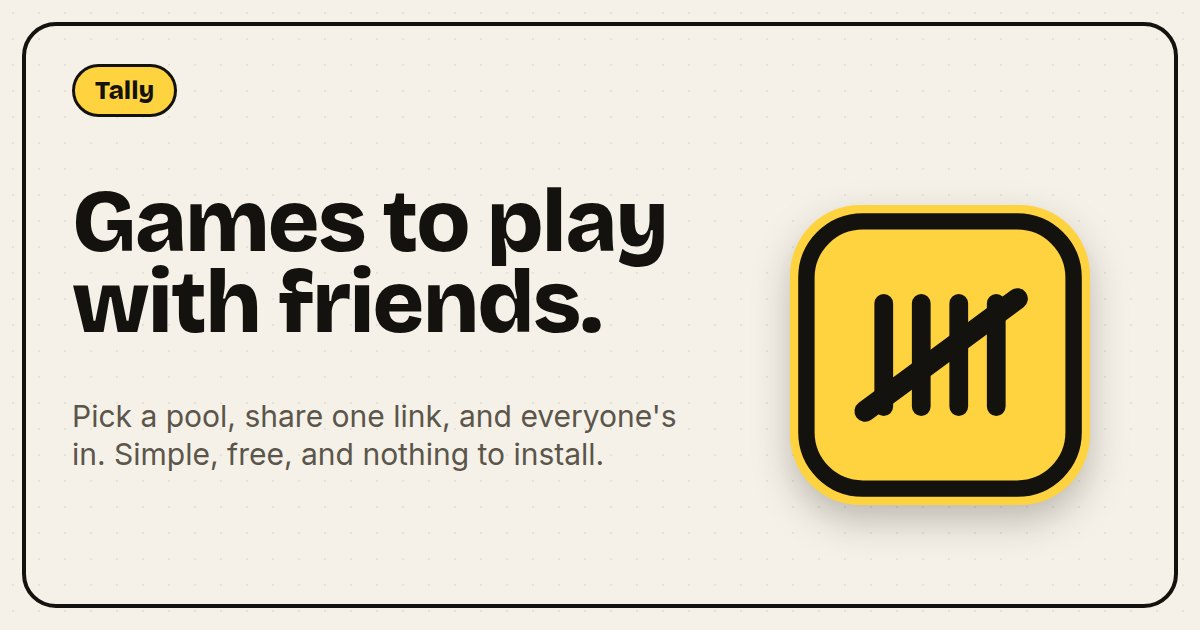
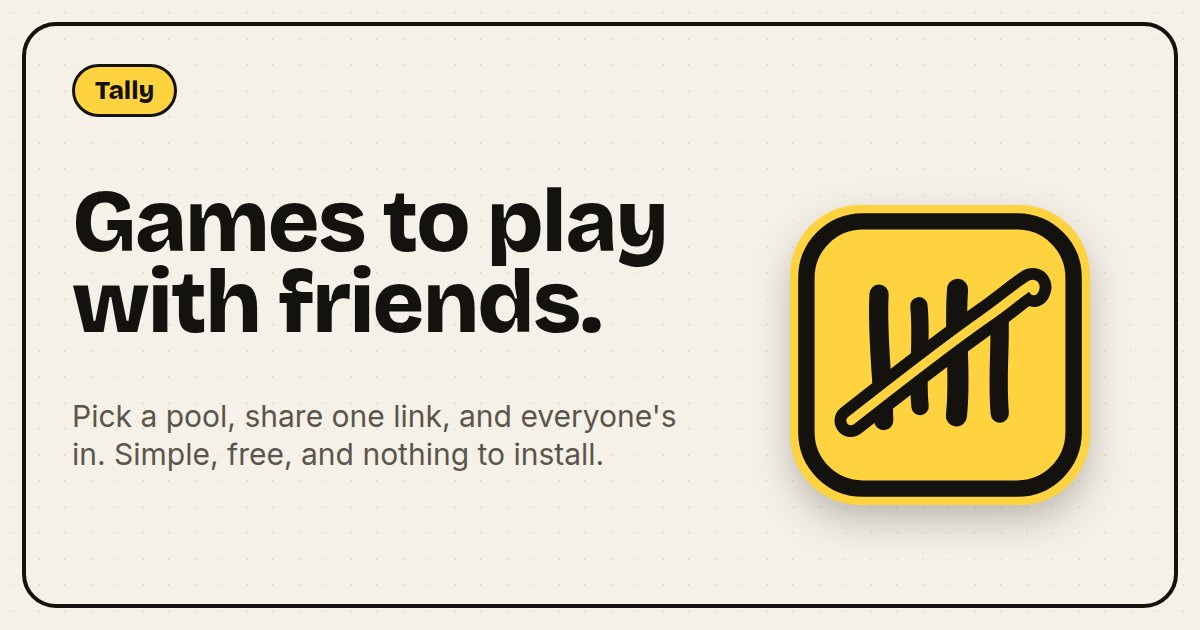
The mark is drawn by a hand: uneven uprights, a hooked fifth with a cut
Straight, equal, round-capped strokes read as a glyph. Now each upright
leans and lands at its own height, and the fifth stroke is a heavy pull
with a hook and a hairline of the ground down its middle — one stroke
with a scar, which is how the one that completes the set gets seen.

Two sets of weights, not one: in the dark the strokes are 8% lighter and
the cut 40% wider, because a light stroke on a dark ground swells where a
dark stroke on light shrinks, and at the light weights the dark cut nearly
closed. The icon script, TallyGlyph and the web loader each carry both,
and the web's live in CSS so they follow the theme.

Claude-Session: https://claude.ai/code/session_01U7MpG5moTLZtrMqWfwCm9C

Changed region(s): [[0.6783, 0.4222, 0.8942, 0.6937]]

diff --git a/ios/TallyKit/Sources/TallyKit/Design/TallyGlyph.swift b/ios/TallyKit/Sources/TallyKit/Design/TallyGlyph.swift
@@ -1,74 +1,122 @@
 import SwiftUI
 
 /**
- The mark: four uprights and the slash across them, in a 56×40 box.
+ The mark: four uprights and the fifth stroke through them, drawn by a hand rather than a ruler.
 
- It is the app icon, the lockup and the loader, and it lives here rather than in the app because
- the widget extension cannot see an app asset — `Image("TallyMark")` builds there and draws
- nothing — so a lock screen that wants the mark draws it, from this. The football and the golf
- ball are the families' badges; this is the app's, because the app is the count and a football is
- one of the things it counts.
+ Each upright leans a hair and lands at its own height, and the fifth is a heavy pull with a hook
+ at the end and a cut of the ground colour down its middle — the stroke that completes the set,
+ read as one stroke with a scar rather than a highlight. It is the app icon, the lockup and the
+ loader, and it lives here rather than in the app because the widget extension cannot see an app
+ asset — `Image("TallyMark")` builds there and draws nothing — so a lock screen that wants the
+ mark draws it, from this. The football and the golf ball are the families' badges; this is the
+ app's, because the app is the count and a football is one of the things it counts.
 
- The proportions match `TallyMark` in `src/components/TallyLoader.tsx`: uprights at 7, 18, 29 and
- 40 across, 7 to 33 down, the slash from the bottom-left corner to past the last upright.
+ The geometry is `public/icon.svg`'s, in a 100×68 box, and `TallyMark` in
+ `src/components/TallyLoader.tsx` draws the same paths. Two sets of weights, not one: in the dark
+ the strokes are 8% lighter and the cut 40% wider, because a light stroke on a dark ground swells
+ where a dark stroke on a light one shrinks, and drawn at the light weights the dark cut nearly
+ closes. `scripts/build-ios-assets.ts` carries the same two sets for the icon.
  */
 public enum TallyGlyph {
     /// Height over width.
-    public static let aspect: CGFloat = 40 / 56
+    public static let aspect: CGFloat = 68 / 100
+
+    /// One stroke: where the pen lands, then cubic segments (two control points and an end).
+    private struct Stroke {
+        let start: CGPoint
+        let segments: [(CGPoint, CGPoint, CGPoint)]
+        let width: CGFloat
+    }
+
+    private static func p(_ x: CGFloat, _ y: CGFloat) -> CGPoint { CGPoint(x: x, y: y) }
+
+    // The icon's paths, shifted by (−18, −29) into the 100×68 box.
+    private static let uprights: [Stroke] = [
+        Stroke(start: p(20, 9), segments: [(p(19, 26), p(21.5, 44), p(22, 63))], width: 8.2),
+        Stroke(start: p(37, 14), segments: [(p(38.5, 29), p(36, 43), p(37.5, 57))], width: 7.4),
+        Stroke(start: p(53.5, 7), segments: [(p(52, 26), p(55, 43), p(53, 61))], width: 9),
+        Stroke(start: p(71, 12), segments: [(p(72.5, 27), p(70, 42), p(71.5, 60))], width: 7.8),
+    ]
+    private static let hook = Stroke(
+        start: p(8, 63),
+        segments: [(p(26, 49), p(46, 33), p(66, 19)), (p(74, 13.5), p(80, 8), p(85, 5)), (p(86.5, 4.5), p(87, 6), p(86, 7.5))],
+        width: 14
+    )
+    private static let cut: CGFloat = 4
+    /// The dark weights: strokes × this, and the cut this wide.
+    private static let darkThinning: CGFloat = 0.92
+    private static let darkCut: CGFloat = 5.6
+    private static let darkHook: CGFloat = 13.2
 
     /**
      Draws the mark into a canvas.
 
      `progress` is how much of it has been written, 0 to 1: each stroke starts a beat after the
-     one before, timed so the slash finishes exactly at 1, which is what lets the app's loader
+     one before, timed so the fifth finishes exactly at 1, which is what lets the app's loader
      write the mark rather than switch it on. At 1 it is the whole mark, which is all a widget
-     ever wants.
+     ever wants. `ground` is what the cut through the fifth stroke shows: the paper the mark sits
+     on, or the tile's yellow. The weights follow the canvas's colour scheme.
      */
     public static func draw(
         into context: GraphicsContext,
         size: CGSize,
         progress: Double = 1,
         ink: Color = TallyPalette.ink,
-        slash: Color = TallyPalette.flag
+        ground: Color = TallyPalette.paper
     ) {
-        let w = size.width / 56
-        let h = size.height / 40
+        let w = size.width / 100
+        let h = size.height / 68
+        let dark = context.environment.colorScheme == .dark
+        let k = dark ? darkThinning : 1
 
-        func stroke(_ index: Int, from: CGPoint, to: CGPoint, colour: Color, width: CGFloat) {
-            let drawn = min(max((progress - Double(index) * 0.14) / 0.44, 0), 1)
-            guard drawn > 0 else { return }
+        func path(_ stroke: Stroke) -> Path {
             var path = Path()
-            path.move(to: from)
-            path.addLine(to: CGPoint(x: from.x + (to.x - from.x) * drawn, y: from.y + (to.y - from.y) * drawn))
-            context.stroke(path, with: .color(colour), style: StrokeStyle(lineWidth: width, lineCap: .round))
+            path.move(to: CGPoint(x: stroke.start.x * w, y: stroke.start.y * h))
+            for (c1, c2, end) in stroke.segments {
+                path.addCurve(
+                    to: CGPoint(x: end.x * w, y: end.y * h),
+                    control1: CGPoint(x: c1.x * w, y: c1.y * h),
+                    control2: CGPoint(x: c2.x * w, y: c2.y * h)
+                )
+            }
+            return path
+        }
+        func drawn(_ index: Int) -> CGFloat {
+            CGFloat(min(max((progress - Double(index) * 0.14) / 0.44, 0), 1))
+        }
+        func stroke(_ path: Path, _ index: Int, colour: Color, width: CGFloat) {
+            let amount = drawn(index)
+            guard amount > 0 else { return }
+            let part = amount < 1 ? path.trimmedPath(from: 0, to: amount) : path
+            context.stroke(part, with: .color(colour), style: StrokeStyle(lineWidth: width * w, lineCap: .round, lineJoin: .round))
         }
 
-        for (index, x) in [7.0, 18.0, 29.0, 40.0].enumerated() {
-            stroke(index, from: CGPoint(x: x * w, y: 7 * h), to: CGPoint(x: x * w, y: 33 * h), colour: ink, width: 4 * w)
+        for (index, upright) in uprights.enumerated() {
+            stroke(path(upright), index, colour: ink, width: upright.width * k)
         }
-        // The slash is the stroke that completes the set, which is the whole idea of a tally, so
-        // it gets the accent where there is one to give.
-        stroke(4, from: CGPoint(x: 2 * w, y: 33 * h), to: CGPoint(x: 48 * w, y: 7 * h), colour: slash, width: 4.5 * w)
+        let fifth = path(hook)
+        stroke(fifth, 4, colour: ink, width: dark ? darkHook : hook.width)
+        stroke(fifth, 4, colour: ground, width: dark ? darkCut : cut)
     }
 }
 
 /// The finished mark as a view: for the widgets, and for anywhere that wants the glyph without
-/// the loader's animation. On a lock screen accessory pass the same colour for both, since that
-/// surface is a mask and the accent would carry nothing.
+/// the loader's animation. On a lock screen accessory, which is drawn as a mask, pass the same
+/// colour for `ground` as the surface behind it so the cut still reads.
 public struct TallyGlyphView: View {
     public var width: CGFloat
     public var ink: Color
-    public var slash: Color
+    public var ground: Color
 
-    public init(width: CGFloat = 56, ink: Color = TallyPalette.ink, slash: Color = TallyPalette.flag) {
+    public init(width: CGFloat = 100, ink: Color = TallyPalette.ink, ground: Color = TallyPalette.paper) {
         self.width = width
         self.ink = ink
-        self.slash = slash
+        self.ground = ground
     }
 
     public var body: some View {
         Canvas { context, size in
-            TallyGlyph.draw(into: context, size: size, ink: ink, slash: slash)
+            TallyGlyph.draw(into: context, size: size, ink: ink, ground: ground)
         }
         .frame(width: width, height: width * TallyGlyph.aspect)
         .accessibilityHidden(true)

diff --git a/scripts/build-ios-assets.ts b/scripts/build-ios-assets.ts
@@ -83,19 +83,35 @@ async function main() {
   // The app icon: iOS masks its own corners, so the artwork fills the square edge to edge. The
   // glyph is the one in public/icon.svg — four uprights and the slash, the mark the loader draws —
   // rather than a football, because the app is the count and the football is one thing it counts.
-  const iconSvg = (ground: string, ink: string) =>
-    `<svg xmlns="http://www.w3.org/2000/svg" viewBox="0 0 128 128" width="1024" height="1024">
+  // It is drawn by a hand rather than a ruler: each upright leans and lands at its own height, and
+  // the fifth stroke is a heavy pull with a cut of the ground down its middle. The dark tile is
+  // the same geometry with its own weights, because yellow on black swells where black on yellow
+  // shrinks — drawn at the light weights, the dark cut nearly closed. TallyGlyph.swift and
+  // TallyLoader.tsx carry the same numbers.
+  const iconSvg = (ground: string, ink: string, dark: boolean) => {
+    const k = dark ? 0.92 : 1;
+    const [edge, cut] = dark ? [13.2, 5.6] : [14, 4];
+    const hook = "M26 92 C 44 78, 64 62, 84 48 C 92 42.5, 98 37, 103 34 C 104.5 33.5, 105 35, 104 36.5";
+    const uprights: [string, number][] = [
+      ["M38 38 C 37 55, 39.5 73, 40 92", 8.2],
+      ["M55 43 C 56.5 58, 54 72, 55.5 86", 7.4],
+      ["M71.5 36 C 70 55, 73 72, 71 90", 9],
+      ["M89 41 C 90.5 56, 88 71, 89.5 89", 7.8],
+    ];
+    return `<svg xmlns="http://www.w3.org/2000/svg" viewBox="0 0 128 128" width="1024" height="1024">
       <rect width="128" height="128" fill="${ground}"/>
       <rect x="9" y="9" width="110" height="110" rx="26" fill="none" stroke="${ink}" stroke-width="7"/>
-      <g fill="none" stroke="${ink}" stroke-linecap="round">
-        <path d="M40 42v44M56 42v44M72 42v44M88 42v44" stroke-width="8"/>
-        <path d="M32 88L97 40" stroke-width="9"/>
+      <g fill="none" stroke="${ink}" stroke-linecap="round" stroke-linejoin="round">
+        ${uprights.map(([d, w]) => `<path d="${d}" stroke-width="${(w * k).toFixed(2)}"/>`).join("")}
+        <path d="${hook}" stroke-width="${edge}"/>
       </g>
+      <path d="${hook}" fill="none" stroke="${ground}" stroke-width="${cut}" stroke-linecap="round" stroke-linejoin="round"/>
     </svg>`;
-  const iconPage = (ground: string, ink: string, px: number) =>
+  };
+  const iconPage = (ground: string, ink: string, px: number, dark = false) =>
     `<!doctype html><html><body style="margin:0;background:${ground}">
       <div style="width:${px}px;height:${px}px;background:${ground};display:flex;align-items:center;justify-content:center">
-        ${iconSvg(ground, ink).replace('width="1024" height="1024"', `width="${px}" height="${px}"`)}
+        ${iconSvg(ground, ink, dark).replace('width="1024" height="1024"', `width="${px}" height="${px}"`)}
       </div></body></html>`;
 
   const icon = path.join(CATALOG, "AppIcon.appiconset");
@@ -108,8 +124,9 @@ async function main() {
   // The dark icon (iOS 18+). Not the light one dimmed: the relationship inverts. On a home screen
   // full of dark icons the yellow square was the loudest thing on the page, so at night the ground
   // becomes the app's own warm near-black and the strokes become the yellow — the same two
-  // colours, the other way round, which is what the rest of the app does when it goes dark.
-  await page.setContent(iconPage("#1A1713", "#FFD23F", 1024));
+  // colours, the other way round, which is what the rest of the app does when it goes dark — and
+  // the dark weights, per iconSvg.
+  await page.setContent(iconPage("#1A1713", "#FFD23F", 1024, true));
   await page.screenshot({ path: path.join(icon, "AppIcon-Dark.png") });
 
   // The web's touch icon is the light icon at 180, so a home-screen shortcut matches the app.

diff --git a/src/components/TallyLoader.tsx b/src/components/TallyLoader.tsx
@@ -4,9 +4,9 @@ import type { Abbr } from "../../shared/teams.ts";
 /**
  * The loading animation.
  *
- * A spinning ring is what every app uses while it waits. This one draws a tally mark — four
- * strokes and the diagonal — because that is what the app is called, and because five is the
- * number the whole pool is built on. It draws, holds, and rubs out, which is also roughly what a
+ * A spinning ring is what every app uses while it waits. This one writes the tally mark — four
+ * strokes and the fifth through them — because that is what the app is called, and because five
+ * is the number the whole pool is built on. It draws, holds, and rubs out, which is also roughly what a
  * week does.
  *
  * Pure CSS: no JavaScript ticking at sixty frames a second behind a request that is already the
@@ -27,45 +27,43 @@ export function TallyLoader({ label = "Loading…", size = 64 }: { label?: strin
  * one part of a page catches up.
  */
 export function TallyMark({ size = 64 }: { size?: number }) {
-  // Four uprights and the slash across them, in a 56x40 box. The slash is gold so the fifth
-  // stroke reads as the one that completes the set, which is the whole point of a tally.
-  const uprights = [7, 18, 29, 40];
+  // The icon's geometry (public/icon.svg) in a 100x68 box; TallyGlyph.swift draws the same paths.
+  // Each upright leans and lands at its own height, and the fifth stroke is a heavy pull with a
+  // cut of the paper down its middle — one stroke with a scar, which is how the stroke that
+  // completes the set gets to be the one you see. The weights come from CSS (`--tally-k`,
+  // `--tally-edge`, `--tally-cut`) because the dark theme needs its own: a light stroke on a dark
+  // ground swells where a dark one on a light ground shrinks, and at the light weights the dark
+  // cut nearly closes.
+  const uprights: [string, number][] = [
+    ["M20 9 C 19 26, 21.5 44, 22 63", 8.2],
+    ["M37 14 C 38.5 29, 36 43, 37.5 57", 7.4],
+    ["M53.5 7 C 52 26, 55 43, 53 61", 9],
+    ["M71 12 C 72.5 27, 70 42, 71.5 60", 7.8],
+  ];
+  const hook = "M8 63 C 26 49, 46 33, 66 19 C 74 13.5, 80 8, 85 5 C 86.5 4.5, 87 6, 86 7.5";
   return (
     <svg
       width={size}
-      height={(size * 40) / 56}
-      viewBox="0 0 56 40"
+      height={(size * 68) / 100}
+      viewBox="0 0 100 68"
       fill="none"
+      strokeLinecap="round"
+      strokeLinejoin="round"
       aria-hidden="true"
       className="tally-mark overflow-visible"
     >
-      {uprights.map((x, i) => (
-        <line
-          key={x}
-          x1={x}
-          y1={7}
-          x2={x}
-          y2={33}
+      {uprights.map(([d, w], i) => (
+        <path
+          key={d}
+          d={d}
           pathLength={1}
           stroke="var(--color-ink)"
-          strokeWidth={4}
-          strokeLinecap="round"
           className="tally-stroke"
-          style={{ "--i": i } as React.CSSProperties}
+          style={{ "--i": i, strokeWidth: `calc(${w}px * var(--tally-k))` } as React.CSSProperties}
         />
       ))}
-      <line
-        x1={2}
-        y1={33}
-        x2={48}
-        y2={7}
-        pathLength={1}
-        stroke="var(--color-flag)"
-        strokeWidth={4.5}
-        strokeLinecap="round"
-        className="tally-stroke"
-        style={{ "--i": 4 } as React.CSSProperties}
-      />
+      <path d={hook} pathLength={1} stroke="var(--color-ink)" className="tally-stroke" style={{ "--i": 4, strokeWidth: "var(--tally-edge)" } as React.CSSProperties} />
+      <path d={hook} pathLength={1} stroke="var(--color-paper)" className="tally-stroke" style={{ "--i": 4, strokeWidth: "var(--tally-cut)" } as React.CSSProperties} />
     </svg>
   );
 }

diff --git a/src/index.css b/src/index.css
@@ -44,6 +44,11 @@
   --color-on-accent: #14120f;
   --color-on-turf: #ffffff;
   --color-dot: rgb(20 18 15 / 0.06);
+  /* The loading mark's weights (TallyLoader.tsx). The dark theme thins the strokes and widens the
+     cut, because a light stroke on a dark ground swells where a dark one on light shrinks. */
+  --tally-k: 1;
+  --tally-edge: 14px;
+  --tally-cut: 4px;
 
   --shadow-hard: 4px 4px 0 0 var(--color-shadow);
   --shadow-hard-sm: 2px 2px 0 0 var(--color-shadow);
@@ -101,6 +106,9 @@
     --color-on-accent: #14120f;
     --color-on-turf: #14120f;
     --color-dot: rgb(244 239 230 / 0.05);
+    --tally-k: 0.92;
+    --tally-edge: 13.2px;
+    --tally-cut: 5.6px;
   }
 }
 
@@ -134,6 +142,9 @@
   --color-on-accent: #14120f;
   --color-on-turf: #14120f;
   --color-dot: rgb(244 239 230 / 0.05);
+  --tally-k: 0.92;
+  --tally-edge: 13.2px;
+  --tally-cut: 5.6px;
 }
 
 :root[data-theme="light"] {
@@ -310,7 +321,8 @@ button {
   /* Team logos drifting past on the welcome page. The track holds two copies of the
      list, so translating by half its width loops without a seam. */
   /* ---- The loading mark ------------------------------------------------------------------
-     Four strokes and the diagonal, drawn and then rubbed out in the order they were written.
+     Four strokes and the fifth through them, drawn and then rubbed out in the order they were
+     written; the fifth is two paths, the ink and the cut, on the same beat.
      Every line carries pathLength="1", so one set of keyframes works for the short uprights and
      the long slash alike; the negative offset at the end pulls the dash off the far side, which
      erases in the same direction the hand drew. */

diff --git a/ios/Tally/Design/TallyLoader.swift b/ios/Tally/Design/TallyLoader.swift
@@ -4,9 +4,9 @@ import TallyKit
 /**
  The loading animation.
 
- A spinning ring is what every app uses while it waits. This one draws a tally mark — four strokes
- and the diagonal — because that is what the app is called, and because five is the number the
- whole pool is built on. It draws, holds, and goes, which is roughly what a week does too.
+ A spinning ring is what every app uses while it waits. This one writes the tally mark — four
+ strokes and the fifth through them — because that is what the app is called, and because five is
+ the number the whole pool is built on. It draws, holds, and goes, which is roughly what a week does too.
 
  With Reduce Motion on it is a finished mark sitting still, which still says "five" and still says
  "Tally", and says nothing at all about waiting.
@@ -60,7 +60,7 @@ struct TallyMark: View {
                 }
             }
         }
-        .frame(width: size, height: size * 40 / 56)
+        .frame(width: size, height: size * TallyGlyph.aspect)
         .accessibilityHidden(true)
     }
 
@@ -75,7 +75,7 @@ struct TallyMark: View {
         guard fade > 0 else { return }
         var context = context
         context.opacity = fade
-        TallyGlyph.draw(into: context, size: size, progress: progress, ink: .ink, slash: .flag)
+        TallyGlyph.draw(into: context, size: size, progress: progress, ink: .ink, ground: .paper)
     }
 }
 

diff --git a/CLAUDE.md b/CLAUDE.md
@@ -169,8 +169,9 @@ footer's `playtally.app` is the seam for the link that belongs there once there 
 at or an App Store listing.
 
 **One badge, and what sits inside it says which contest.** Three marks share the same yellow
-ground, ink and border: `TallyMark` is the app's — four uprights and the slash, the mark the loader
-draws — and it is the icon, the lockup and the welcome screen; `FootballMark` is a pool's, on the
+ground, ink and border: `TallyMark` is the app's — four uprights and the fifth stroke through them,
+drawn by a hand rather than a ruler, with a cut of the ground down the fifth — and it is the icon,
+the lockup and the welcome screen; `FootballMark` is a pool's, on the
 pool chip, the pager and Home's pool cards; `GolfMark` is a card's, on the golf chip and the
 poster. The app's own mark is the tally rather than the football because the app is the count and
 a football is one of the things it counts — the golf card is what showed that: a card three people
@@ -179,8 +180,12 @@ brand. All three are rasterised at 1x/2x/3x from SVG (`public/icon.svg`, `public
 `public/golf.svg`) by `scripts/build-ios-assets.ts`, which also writes the app icon and the web's
 touch icon from the same glyph, so they are **app-target assets and so invisible to the widget
 extension** — a lock screen that wants the mark draws it with `TallyGlyph` in TallyKit, which is
-also what the app's loader draws through, so there is one set of strokes. The tee is what makes the
-golf ball legible at 22pt: a bare ball is a circle with specks on it.
+also what the app's loader draws through, so there is one set of strokes. The mark has **two sets
+of weights, not one**: in the dark the strokes are 8% lighter and the cut 40% wider, because a
+light stroke on a dark ground swells where a dark stroke on a light one shrinks, and drawn at the
+light weights the dark cut nearly closed. The icon script, `TallyGlyph` and `TallyLoader.tsx` each
+carry both sets; change one and change all three. The tee is what makes the golf ball legible at
+22pt: a bare ball is a circle with specks on it.
 
 The round's Live Activity is the one lock screen in the app that **needs no APNs key**: a scramble
 has no feed, so every change is a tap in this app and `RoundActivityService` updates the activity
